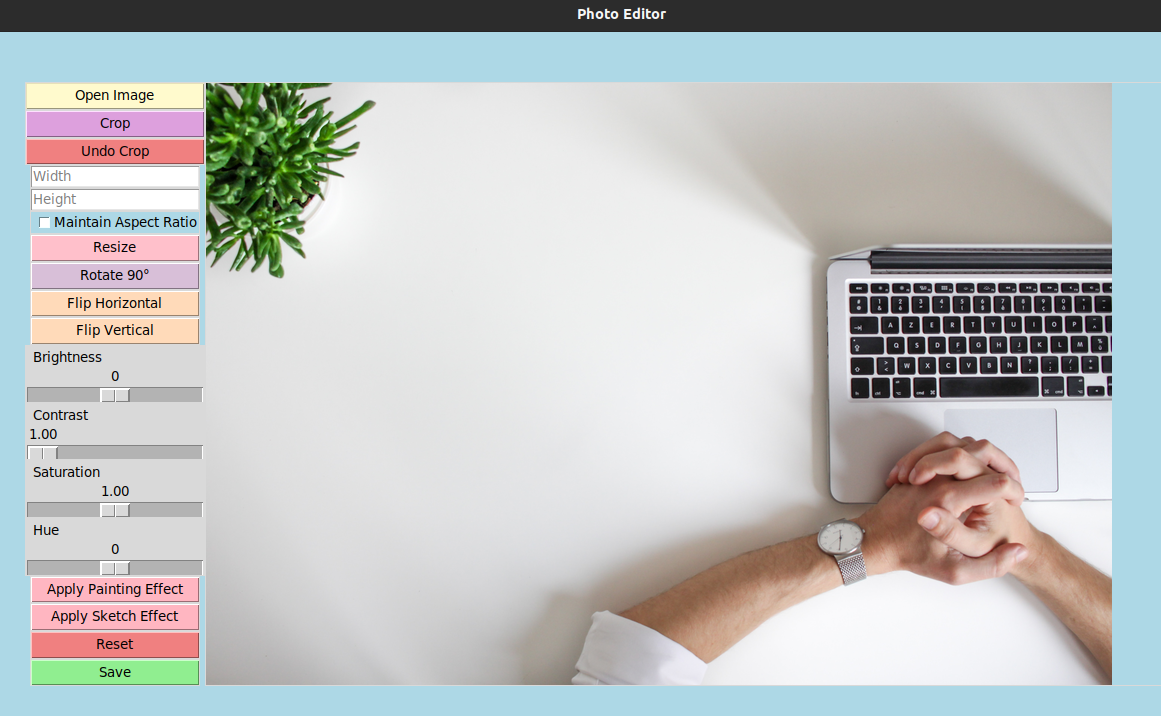
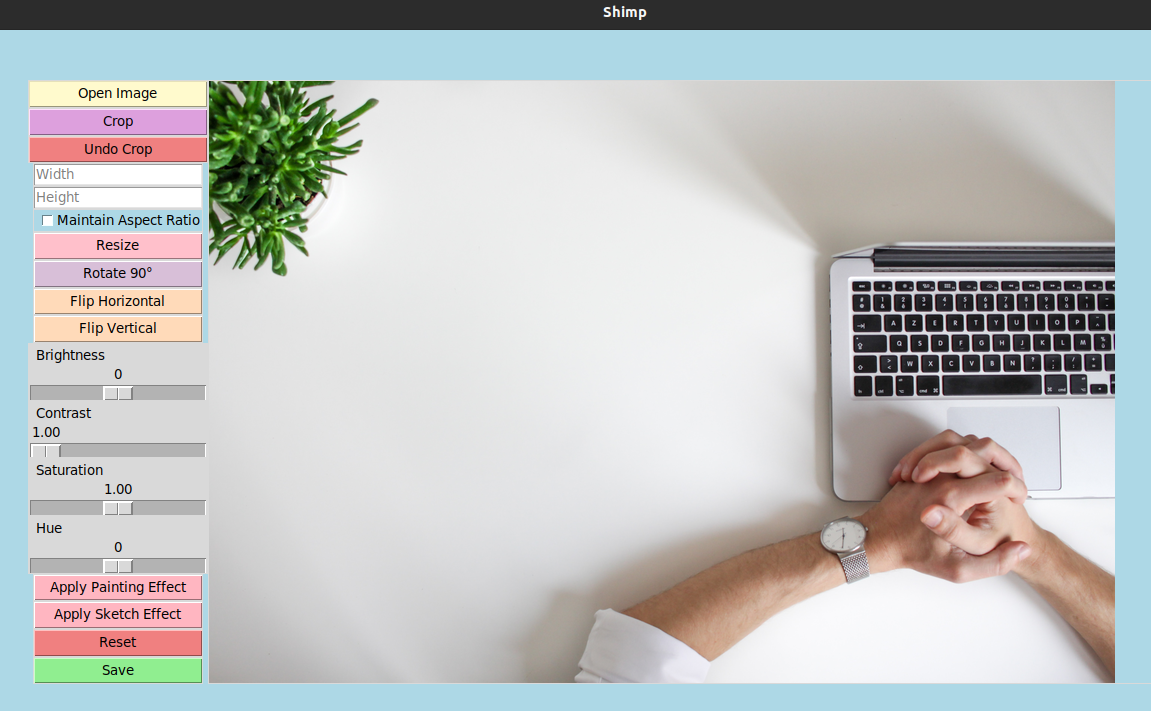
added screenshot

diff --git a/photo_editor.py b/photo_editor.py
@@ -7,7 +7,7 @@ import cv2
 class PhotoEditor:
     def __init__(self, window: Tk) -> None:
         self.window = window
-        self.window.title("Photo Editor")
+        self.window.title("Shimp")
         self.image_states = []  # Initialize the stack for image states
         self.original_image = None
         self.display_image = None

diff --git a/README.md b/README.md
@@ -31,7 +31,6 @@ Note: If you are using Shimp before threading is implemented please use images o
 
 ## Screenshot
 
-![](https://github.com/shikhars/shimp/blob/nondefault/images/shimp.png)
 
 ```shell
 pip install Pillow
